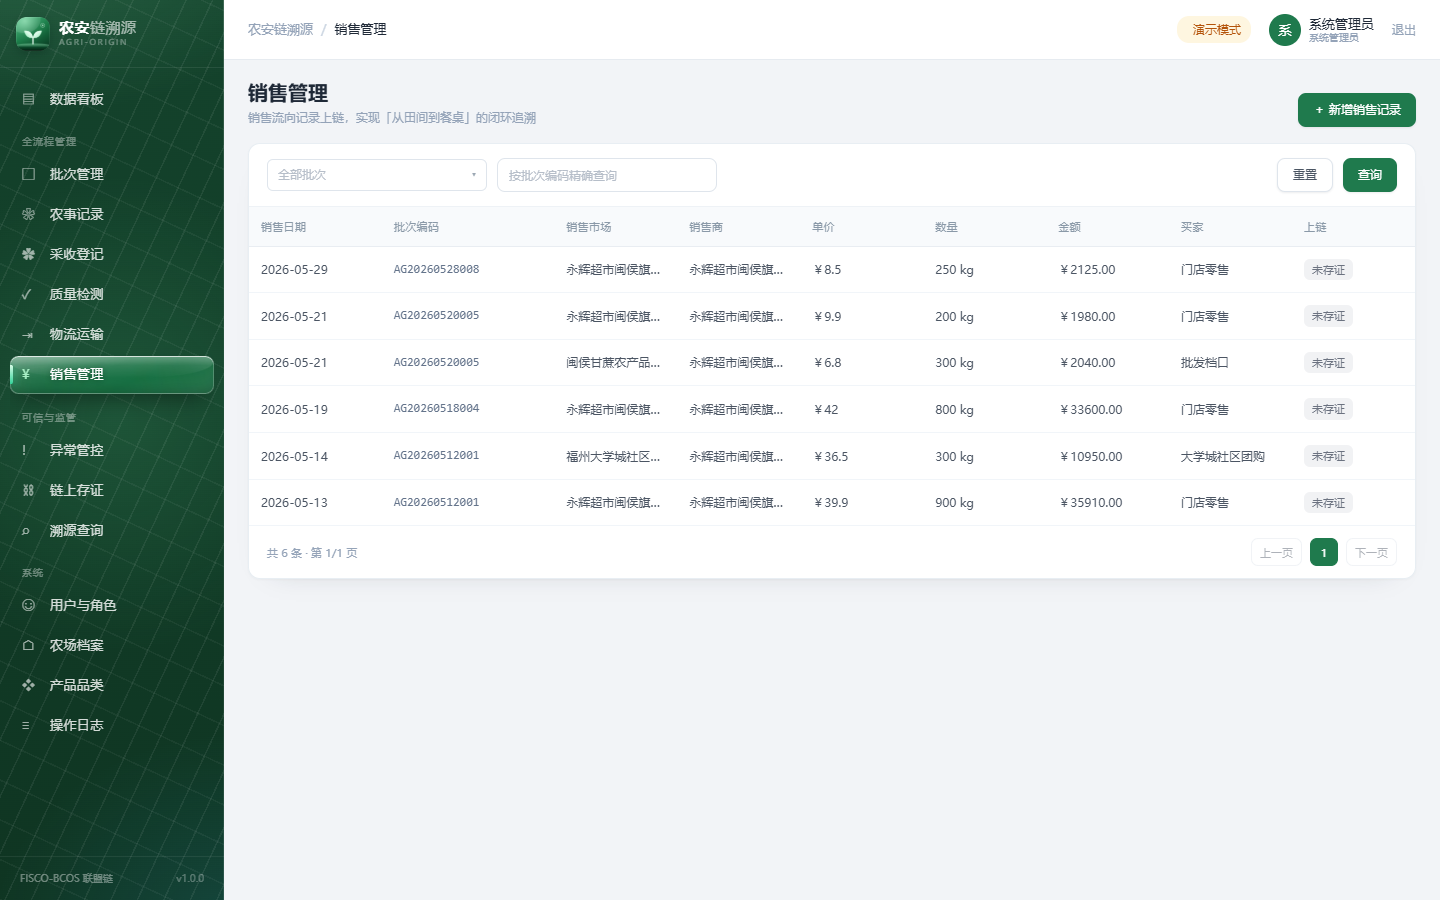
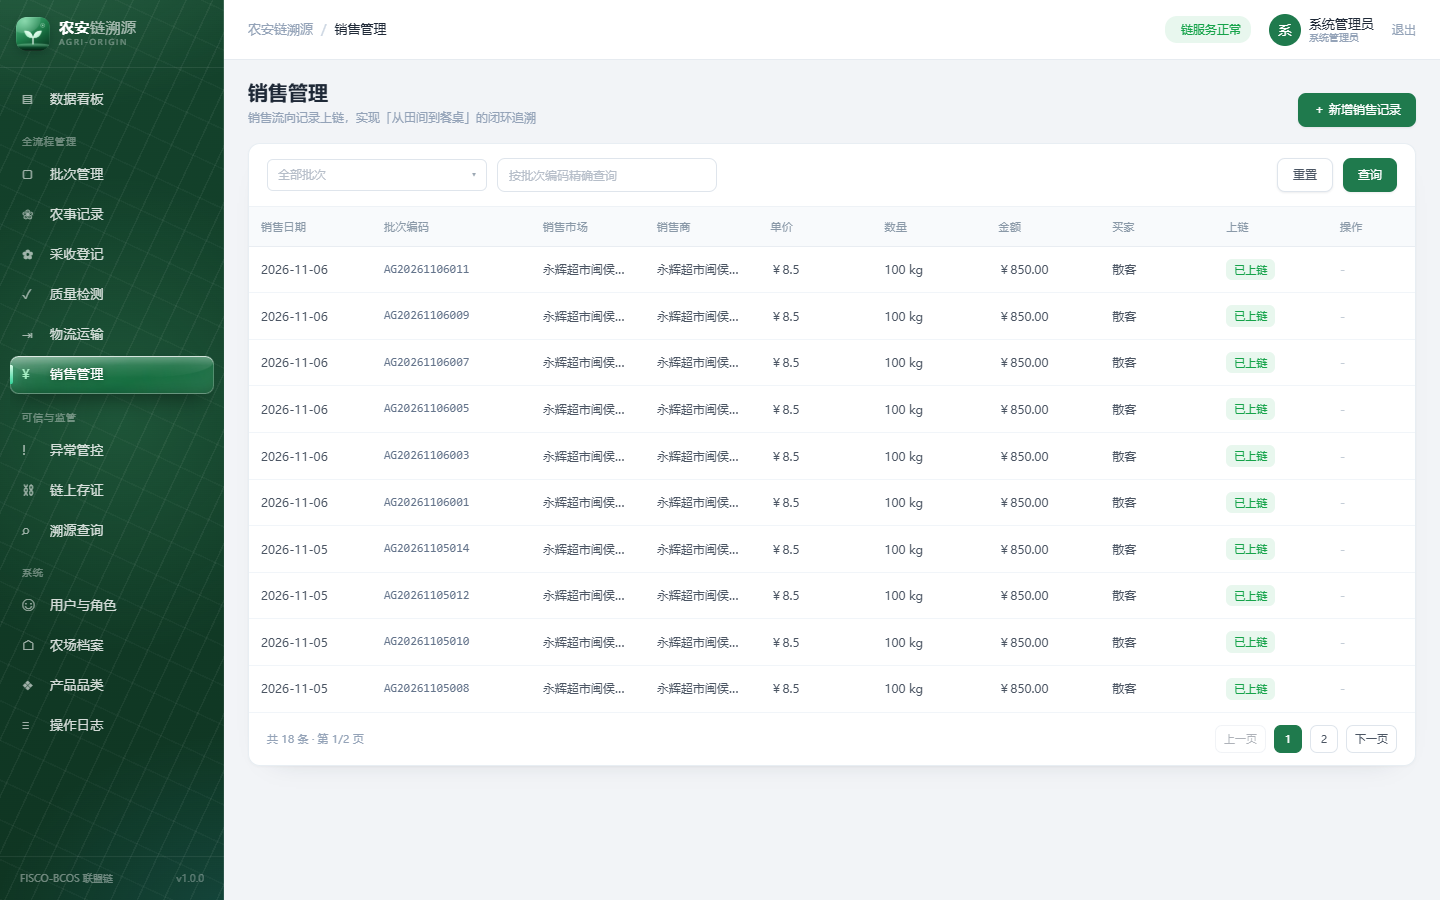
docs: 预览与版本信息对齐线上实况（真实链截图 + 版本号校准）
截图此前采集于 chain.enabled=false 的演示模式，链上存证页是空状态，
与当前线上「四节点 + 真实上链」不符。

- uni-pc/ 与 uni/ 共 24 张在线上环境重拍：真实交易哈希、区块高度、
  链服务状态、AgriTrust-5D 评分均为实跑数据；新增 pc-login.png
- 预览章节扩到最全：5.3 补 12 个业务流程页（农事/采收/质检/物流/销售/
  异常/溯源/用户/农场/产品/日志）与 6 个移动端页，5.1/5.2 补登录、
  质检、溯源、系统用户、H5 批次列表
- 徽章与技术栈按代码实值校准：FISCO-BCOS 2.9.1、WeBASE-Front 1.5.5、
  uni-app 3.0、MySQL 8.0，补齐 Vue/Vite/Element Plus/Vant/
  MyBatis-Plus/Knife4j/Hutool 的具体版本，新增「部署与运维」一行
- 修正两处口径：演示账号补 farmer02（9 个）、物流企业菜单 5 项
  （实测 14 / 6 / 5）
- screenshots/README.md 的「所有截图均未上链」改为两类环境的如实说明
- 修正 pc-batch-detail-tall 与 m-batch-list 误抓成重复图的问题

diff --git a/docs/assets/screenshots/README.md b/docs/assets/screenshots/README.md
@@ -7,6 +7,9 @@
 三端统一工程（`frontend/uni-app`）的截图由 `frontend/uni-app/scripts/e2e-pc.js` 自动采集，
 每次执行会覆盖 `uni-pc/` 并写出 `report.json`（包含逐页 DOM 文本与 0 报错记录）。
 
+> `uni-pc/` 与 `uni/` 下的现存图片于 2026-11-06 在线上环境（`http://8.130.105.150`）重新采集，
+> 对应真实四节点链；`report.json` 仍是最近一次本地 e2e 运行的记录。
+
 ## 文件清单
 
 ### PC 管理端（1560 × 960）
@@ -67,16 +70,15 @@
 | `m-trace.png` | 消费者溯源 | 免登录扫码入口 |
 | `m-mine.png` | 我的 | 账号信息、权限、退出 |
 
-## 关于"未上链"标识
+## 关于存证状态
 
-截图中所有存证状态均为「未上链」，因为截图环境未接入 FISCO-BCOS 节点
-（`application.yml` 中 `chain.enabled=false`）。
+两类截图对应两种真实环境，都不是占位图：
 
-这是刻意保留的真实状态：演示模式下系统会如实把存证标记为 `SKIPPED`，
-并在一致性校验时提示「未存证」，**不会显示虚假的交易哈希与"存证成功"**。
-
-答辩时若已搭好链，重新走一遍业务即可得到带真实 `txHash` 与区块高度的截图，
-此时 `pc-07-chain.png` 会显示实际的存证流水而非空状态。
+- **`uni-pc/` 与 `uni/`**（当前线上部署的三端统一工程）：取自 FISCO-BCOS 2.9.1 四节点真实链，
+  存证状态为「已上链」，交易哈希与区块高度可直接在链上回查（例如 `pc-chain.png` 显示
+  区块 `#177`、存证 165 条、成功率 100%）。
+- **根目录 `pc-*.png` / `h5-*.png`**（独立 PC / H5 工程）：采集于 `chain.enabled=false` 的演示模式，
+  存证如实标记为 `SKIPPED`，一致性校验提示「未存证」，**不伪造交易哈希**。
 
 ## 重新采集
 
